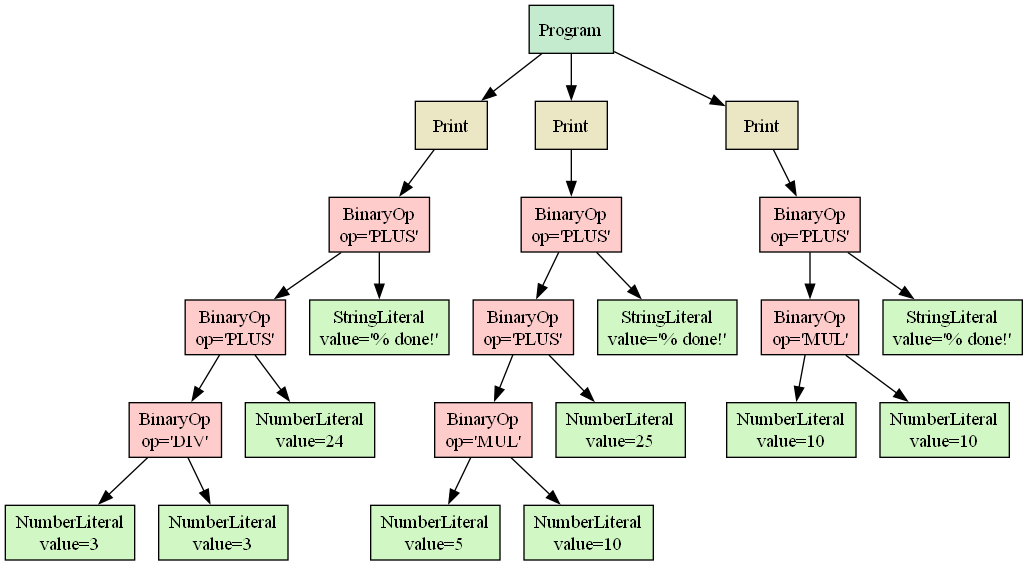
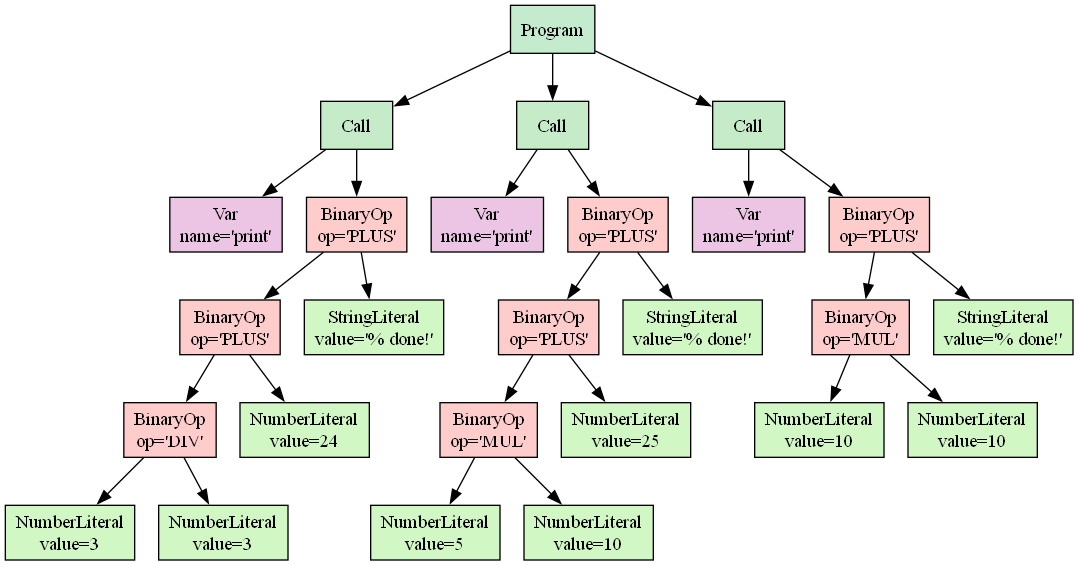
print -> print()

Changed region(s): [[0.0934, 0.0, 1.0, 0.9929], [0.0, 0.8425, 0.2802, 0.9929]]

diff --git a/mars_transpiler/parser.py b/mars_transpiler/parser.py
@@ -1,4 +1,4 @@
-from ast_nodes import NumberLiteral, StringLiteral, BinaryOp, Print, Program
+from ast_nodes import NumberLiteral, StringLiteral, BinaryOp, Call, Program, Var
 
 class Parser:
     #We pass in the tokens which we got from the lexer
@@ -35,10 +35,8 @@ class Parser:
     
     def statement(self):
         tok = self.current()
-        if tok.type == "PRINT":
-            self.eat("PRINT")
-            expr = self.expr()
-            return Print(expr)
+        if tok.type == "PRINT": #print moved to call (handled in term)
+            pass # Placeholder for future statement handling
         else:
             return self.expr()
 
@@ -62,6 +60,25 @@ class Parser:
         elif tok.type == "STRING":
             self.eat("STRING")
             return StringLiteral(tok.value.strip('"'))
+        
+        elif tok.type == "ID":
+            # Possible function call
+            id_tok = self.eat("ID")
+            if self.current().type == "LPAREN":
+                self.eat("LPAREN")
+                args = []
+                if self.current().type != "RPAREN":
+                    args.append(self.expr())
+                    while self.current().type == "COMMA":
+                        self.eat("COMMA")
+                        args.append(self.expr())
+                self.eat("RPAREN")
+                return Call(func=Var(id_tok.value), args=args)
+            else:
+                # variable reference
+                return Var(id_tok.value)
+
+
         elif tok.type == "LPAREN":
             self.eat("LPAREN")
             node = self.expr()
@@ -83,9 +100,11 @@ class Parser:
                 print(f"{prefix}BinaryOp({op})")
                 self.print_ast(left, indent + 1)
                 self.print_ast(right, indent + 1)
-            case Print(value):
-                print(f"{prefix}PrintStatement")
-                self.print_ast(value, indent + 1)
+            case Call(func, args):
+                func_name = func.name if isinstance(func, Var) else str(func)
+                print(f"{prefix}Call({func_name})")
+                for arg in args:
+                    self.print_ast(arg, indent + 1)
             case _:
                 print(f"{prefix}Unknown node type: {node}")
         if indent == 0:

diff --git a/mars_transpiler/bytecodegen.py b/mars_transpiler/bytecodegen.py
@@ -48,9 +48,15 @@ def compile_node(node, code: List[Instr]):
         case ast.Var(name):
             code.append(("LOAD", name))
 
-        case ast.Print(expr):
-            compile_node(expr, code)
-            code.append(("PRINT",))
+        case ast.Call(func, args):
+            # compile each argument in order (so last argument ends up on top of stack)
+            for arg in args:
+                compile_node(arg, code)
+            # currently only support 'print' as builtin
+            if isinstance(func, ast.Var) and func.name == "print":
+                code.append(("PRINT", len(args)))  # PUSH all args, then PRINT n args
+            else:
+                raise NotImplementedError(f"Function call not implemented: {func}")
 
         case _:
             raise TypeError(f"Unknown AST node {node}")

diff --git a/mars_transpiler/lexer.py b/mars_transpiler/lexer.py
@@ -12,7 +12,7 @@ TOKEN_SPEC = [
     ("FLOAT",   r"\d+\.\d+"),          # check for float first (so 3.14 is not parsed as int + .14)
     ("INT",     r"\d+"),               # next we can check for ints
     ("STRING",  r'"[^"]*"'),           # string should be in double quotes
-    ("PRINT",   r"\bprint\b"),         # match the 'print' keyword ('b' is used to indicate word boundary)
+    ("ID",      r"[A-Za-z_][A-Za-z0-9_]*"), # identifiers (including 'print')
     ("INC",     r"\+\+"),              # check for increment operator
     ("DEC",     r"--"),                # check for decrement operator
     ("PLUS",    r"\+"),                # check for plus signs

diff --git a/mars_transpiler/ast_nodes.py b/mars_transpiler/ast_nodes.py
@@ -28,8 +28,9 @@ class Assign:
 
 #Uses for printing values to the console/stdout
 @dataclass
-class Print:
-    expr: Any
+class Call:
+    func: Any      
+    args: List[Any] 
 
 #The root node of a program, containing a list of statements. 
 # (We havent added in all of our AST stuff yet however I think this is the "expression" part the we previously defined????)

diff --git a/mars_transpiler/ast_visualizer.py b/mars_transpiler/ast_visualizer.py
@@ -12,7 +12,7 @@ def visualize(node):
 
         # Determine label dynamically
         label = type(n).__name__
-        
+
         if is_dataclass(n):
             # Include field names and values (basic literals only)
             parts = []
